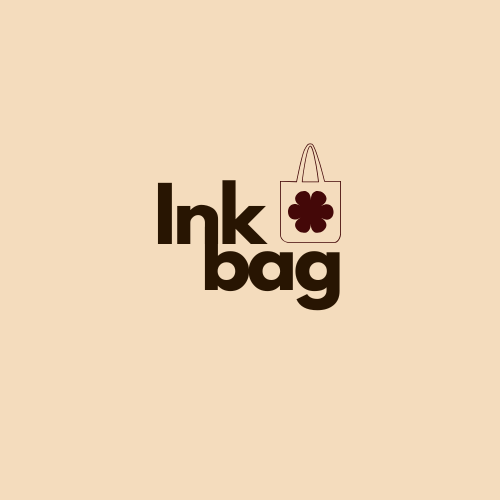
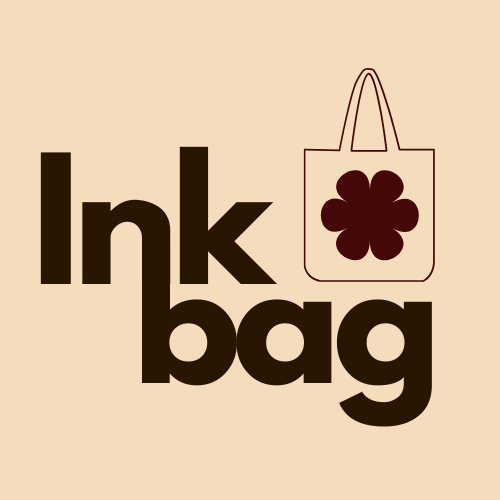
Menu de Navegação Criado

Changed region(s): [[0.06, 0.12, 0.87, 0.87]]

diff --git a/index.html b/index.html
@@ -1,26 +1,36 @@
 <!DOCTYPE html>
 <html lang="pt-br">
+
 <head>
     <meta charset="UTF-8">
     <meta name="viewport" content="width=device-width, initial-scale=1.0">
+    <link rel="Stylesheet" href="style.css">
     <title>InkBag</title>
 </head>
+
 <body>
     <header class="header">
-        <a href="#" class="logo">
-            <img src="img/Ink.png" alt="logo">
-        </a>
+        <section>
+            
+            <nav class="navbar">
+                <a href="#about" class="linkTopo">Sobre</a>
+                <a href="#personalized" class="linkTopo">Personalizadas</a>
+                <a href="#feedbacks" class="linkTopo">Feedbacks</a>
+            </nav>
+            
+            <a href="#" class="logo">
+                <img src="img/Ink.png" alt="logo" id="logoInkBag">
+            </a>
+            
+            <div class="iconsRight">
+                <a href="#doTheChange" class="linkTopo">Faça a mudança</a>
+                <img width="50" height="50" src="https://img.icons8.com/ios/50/vertical-line.png" alt="vertical-line"/>
+                <img width="50" height="50" src="https://img.icons8.com/ios/50/search--v1.png" alt="search--v1" />
+                <img width="50" height="50" src="https://img.icons8.com/ios/50/shopping-cart--v1.png"
+                    alt="shopping-cart--v1" />
+        </section>
     </header>
-
-    <nav class="navbar">
-        <a href="#about">Sobre</a>
-        <a href="#personalized">Personalizadas</a>
-        <a href="#feedbacks">Feedbacks</a>
-        <a href="#doTheChange">Faça a mudança</a>
-    </nav>
-
-    <div class="icons">
-        <img width="50" height="50" src="https://img.icons8.com/ios/50/search--v1.png" alt="search--v1"/>
-        <img width="50" height="50" src="https://img.icons8.com/ios/50/shopping-cart--v1.png" alt="shopping-cart--v1"/>
+    
 </body>
+
 </html>

diff --git a/style.css b/style.css
@@ -1,3 +1,55 @@
+:root {
+    --main-color: #d3ad7f;
+    --black: #13131a;
+    --bg: #f4dcbd;
+    --border: 0.5rem solid rgb(0, 0, 0);
+    font-size: 10px;
+}
+
+* {
+    margin: 0;
+    padding: 0;
+    outline: none;
+    border: none;
+    text-decoration: none;
+    text-transform: capitalize;
+    transition: 0.2 linear;
+}
+
+#logoInkBag {
+    width: 100px;
+    height: 100px;
+}
+
 body {
-    background-color: #f4dcbd;
+    background-color: var(--bg);
+}
+
+section {
+    padding: 3rem 2rem;
+    margin: 0 auto;
+    max-width: 1400px;
+}
+
+.header {
+    position: fixed;
+    top: 0;
+    left: 0;
+    right: 0;
+    z-index: 99;
+    border-bottom: var(--border); 
+}
+
+.header section {
+    display: flex;
+    align-items: center; /* VERTICAL */
+    justify-content: space-between; /* HORIZONTAL */
+    padding-top: 1.5rem;
+    padding-bottom: 1.5rem;
+}
+
+.linkTopo {
+    margin: 0 1rem;
+    font-size: 1.8rem;
+    color: #000;
 }

diff --git a/README.md b/README.md
@@ -1,3 +1,3 @@
 # InkBag
 ## Site criado para um negócio de Ecobags personalizadas.
-## Design inspirado em: [text](https://nobl.io)
+## Design inspirado em: [nobl.io](https://nobl.io)
